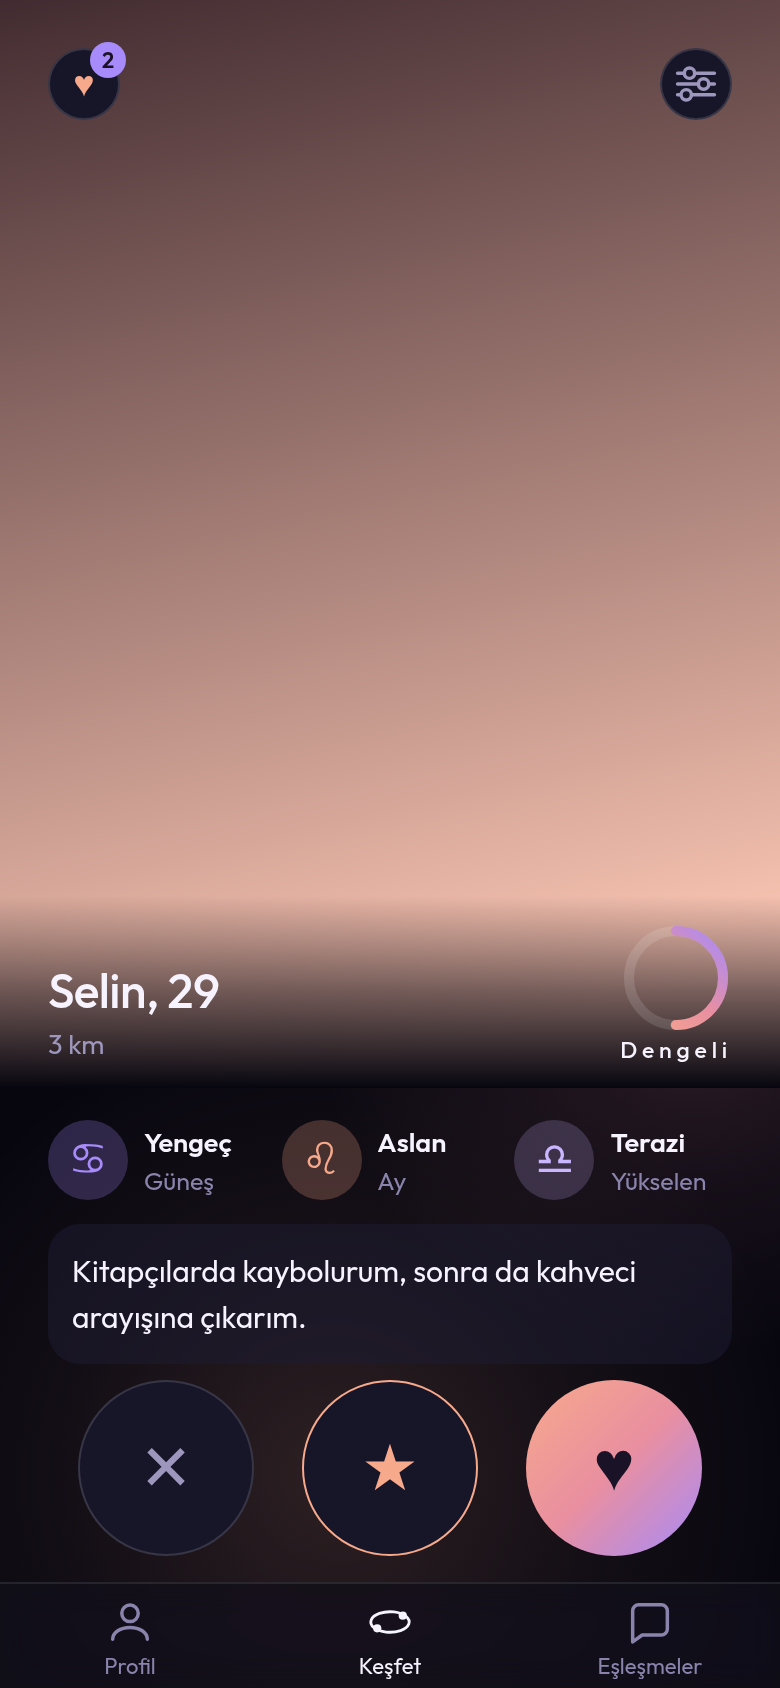
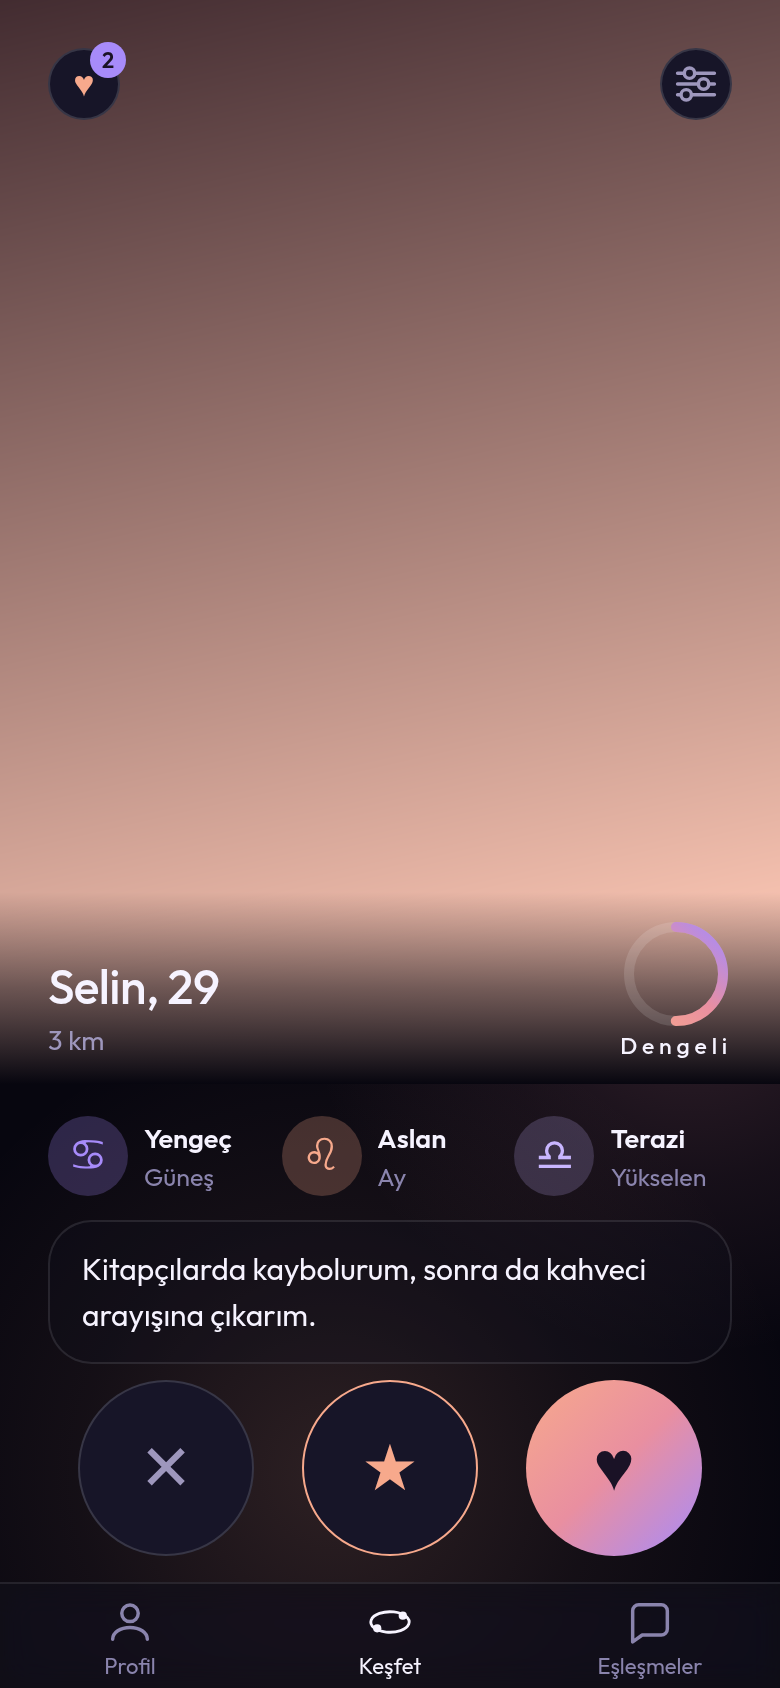
Box the bio the way every other box is drawn, and match the two photos
Before: the bio sat in a box of its own invention — an opaque-ish fill,
no edge, the medium radius — and 51 points of empty screen stood between
it and the round buttons on a 390x844 phone. The deck's photograph and
the profile's had also drifted apart once the deck's started growing into
that leftover.

After: the bio is in the app's ordinary card, translucent over a hairline
edge at the card radius, the gap below it is 8 points, and both
photographs are the same height on a card with a bio (profile 0-540, deck
0-542).

Both are the owner's calls from his device: "bio kutucugu ui cok kotu
olmus. hala cok bosluk var", then "profildekini de ayni boyuta getir.
ayrica bio kutucugunu diger kutucuklar gibi yarisaydam yap".

How: `bioBox` takes `glass.fill`, `glass.edge` and `radius.lg`, the same
three every other card on the screen uses. `PHOTO_SCREEN_FRACTION` goes
0.56 to 0.64 — the one number both screens read, so the profile screen
itself is untouched while PR #9 is editing it. 0.64 is where the deck
settles for a two-line bio; a card with a shorter bio or none still lets
its photograph take the slack (565 and 626), which is what keeps the gap
from coming back. A long bio is cut at two lines, so its card measures
exactly as the two-line one does.

Screenshots re-shot against the stub harness at 390x844 on this bundle,
and the measurements above were read in the browser on it.

Claude-Session: https://claude.ai/code/session_01UVjPP9vNNaoNjsRDM49Qk9

diff --git a/apps/mobile/components/ui.tsx b/apps/mobile/components/ui.tsx
@@ -72,14 +72,25 @@ export const SCREEN_TOP_GUTTER = 20;
  * How much of the window a full-screen photo takes, on the deck and on the
  * profile. One number so the two line up (owner, 2026-09-14: "keşfette ve
  * profilde resimler aynı hizada olsun") — both start at the top edge, so
- * equal heights put their bottoms on the same line. The deck arrives at it
- * by filling what its fixed block below leaves and capping here; the
- * profile, which scrolls, takes it directly.
+ * equal heights put their bottoms on the same line. The profile, which
+ * scrolls, takes it directly; the deck takes it as the height its
+ * photograph asks for and grows into whatever the block below leaves
+ * over, so that the leftover never turns into a gap above the buttons.
+ *
+ * Raised from 0.56 on 2026-09-23. At 0.56 the deck's block below left 51
+ * points spare on a 390x844 phone and the footer spread them around the
+ * round buttons (owner: "hala cok bosluk var"); the number is now what
+ * the deck settles at for a card with a two-line bio, so on that card the
+ * two screens are within a couple of points of each other and the deck
+ * has nothing left to spend. A card with a short bio or none leaves the
+ * deck's photograph up to about 25 points taller than the profile's,
+ * which is the price of never drawing that gap again (owner told,
+ * 2026-09-23).
  *
  * The two popup sheets are not in this: they are 88% of the screen tall
  * and keep the picture's own 3:4.
  */
-export const PHOTO_SCREEN_FRACTION = 0.56;
+export const PHOTO_SCREEN_FRACTION = 0.64;
 
 /**
  * What a host owes its first child if that child takes the top edge.

diff --git a/apps/mobile/app/(tabs)/(discover)/discover.tsx b/apps/mobile/app/(tabs)/(discover)/discover.tsx
@@ -1295,10 +1295,15 @@ const styles = StyleSheet.create({
   },
   likedBannerSuper: { borderColor: color.warm },
   likedBannerText: { ...type.caption, color: color.text },
+  // The sheet's own card, as every other box in the app is drawn
+  // (owner, 2026-09-23: "diğer kutucuklar gibi yarısaydam yap"): the
+  // translucent fill and the hairline edge, at the card radius.
   bioBox: {
-    borderRadius: radius.md,
-    backgroundColor: glass.fillHigh,
-    paddingHorizontal: space.md,
+    borderRadius: radius.lg,
+    borderWidth: 1,
+    borderColor: glass.edge,
+    backgroundColor: glass.fill,
+    paddingHorizontal: space.lg,
     paddingVertical: space.md,
   },
   bio: { ...type.body, color: color.text },

diff --git a/docs/NOTES.md b/docs/NOTES.md
@@ -7443,12 +7443,29 @@ and the buttons. The photograph now grows into the leftover
 Measured in the browser, before and after: photo 0–473 → 0–544, bio box
 bottom 597 → 682, buttons top 648 → 690.
 
-That has a cost worth writing down: `PHOTO_SCREEN_FRACTION` exists
-because the deck's photograph and the profile's must end on the same line
-(owner, 2026-09-14). The deck's is now taller than the profile's on any
-screen with room to spare. The owner was told in the same message and can
-have the profile's grown to match with one word; until he says so, the
-two differ deliberately.
+That had a cost, and he settled it the same hour. `PHOTO_SCREEN_FRACTION`
+exists because the deck's photograph and the profile's must end on the
+same line (owner, 2026-09-14), and growing the deck's into the leftover
+broke that. He answered "profildekini de aynı boyuta getir", so the
+fraction itself moved, 0.56 to 0.64 — one number, both screens, nothing
+else touched, because PR #9 is editing that same profile screen. 0.64 is
+where the deck settles for a card with a two-line bio: profile 0–540,
+deck 0–542. The two cannot be identical on every card, because the deck's
+photograph still absorbs what a shorter block below leaves — 565 on a
+one-line bio, 626 on a card with no bio at all — and that is the price of
+never drawing the gap again.
+
+A long bio costs nothing: it is cut at two lines with an ellipsis, so its
+card is the two-line card to the point (photo 0–542, box 610–682), and
+the whole text is on the profile a tap away.
+
+The box itself he called ugly, and it was drawn as its own thing —
+`glass.fillHigh`, no border, the medium radius. It is the app's ordinary
+card now (`glass.fill` behind `glass.edge` at `radius.lg`), which is what
+"diğer kutucuklar gibi yarısaydam yap" asked for and what every other box
+on the screen already was. Worth remembering as a rule rather than a fix:
+a new surface here should reach for the shared card look before inventing
+a fill.
 
 **`discover.likes_me`.** Three values — null, 'like', 'super' — withheld
 from a free member _in the view_, not on the device, because who has
